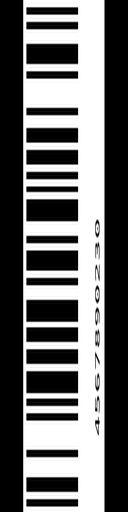
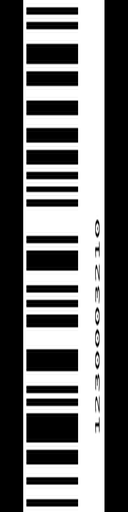
Separate Lecture Pages Draft

diff --git a/GUI/pg/pgStart.py b/GUI/pg/pgStart.py
@@ -1,7 +1,8 @@
+from kivy.uix.image import Image
 from kivy.uix.label import Label
 from kivy.uix.popup import Popup
 from kivy.uix.button import Button
-from kivy.uix.gridlayout import GridLayout
+from kivy.uix.floatlayout import FloatLayout
 
 import webbrowser
 from functools import partial
@@ -20,24 +21,35 @@ def faq_status(sign, dt):
 def on_faq(self, no):
     faq_status(self.ids["txt_faq_%s_click" % no], None)
 
-    popup_content = GridLayout(cols=1)
+    popup_content = FloatLayout()
     popup = Popup(title=self.ids["txt_faq_%s" % no].text,
                   content=popup_content, separator_color=[140/255., 55/255., 95/255., 1.],
                   size_hint=(None, None), size=(self.width/2, self.height/2))
+    popup_content.add_widget(Image(source="img/widget_75_gray.png", allow_stretch=True, keep_ratio=False,
+                                   size=(self.width, self.height), pos_hint={"center_x":.5, "center_y":.5}))
     if no == 1:
-        popup_content.add_widget(Label(text="Hello World 1", font_name="font/CaviarDreams.ttf", font_size=self.width/50))
+        popup_content.add_widget(Label(text="HelloWorld 1", color=(0,0,0,1),
+                                       font_name="font/CaviarDreams.ttf", font_size=self.width/50,
+                                       pos_hint={"center_x": .5, "center_y": .5}))
     elif no == 2:
-        popup_content.add_widget(Label(text="Hello World 2", font_name="font/CaviarDreams.ttf", font_size=self.width/50))
+        popup_content.add_widget(Label(text="HelloWorld 2", color=(0,0,0,1),
+                                       font_name="font/CaviarDreams.ttf", font_size=self.width/50,
+                                       pos_hint={"center_x": .5, "center_y": .5}))
     elif no == 3:
-        popup_content.add_widget(Label(text="Hello World 3", font_name="font/CaviarDreams.ttf", font_size=self.width/50))
+        popup_content.add_widget(Label(text="HelloWorld 3", color=(0,0,0,1),
+                                       font_name="font/CaviarDreams.ttf", font_size=self.width/50,
+                                       pos_hint={"center_x": .5, "center_y": .5}))
     else:
-        popup_content.add_widget(Label(text="Hello World 4", font_name="font/CaviarDreams.ttf", font_size=self.width/50))
+        popup_content.add_widget(Label(text="HelloWorld 4", color=(0,0,0,1),
+                                       font_name="font/CaviarDreams.ttf", font_size=self.width/50,
+                                       pos_hint={"center_x": .5, "center_y": .5}))
     popup_content.add_widget(Button(text="Close",
                                     font_name="font/LibelSuit.ttf",
                                     font_size=self.height/40,
                                     background_normal="img/widget_100.png",
                                     background_down="img/widget_100_selected.png",
                                     size_hint_y=None, height=self.height/20,
+                                    pos_hint={"center_x": .5, "y": .0},
                                     on_release=popup.dismiss))
     popup.bind(on_dismiss=partial(faq_status, self.ids["txt_faq_%s_click" % no]))
     popup.open()

diff --git a/GUI/pg/pgLects.py b/GUI/pg/pgLects.py
@@ -1,0 +1,58 @@
+import sys
+sys.path.append("../..")
+
+from Server import DatabaseAPI
+from kivy.uix.button import Button
+from kivy.uix.dropdown import DropDown
+
+def on_pre_enter(self):
+    data = ["Cs_361_Software","Eecs_202_Basic_Digital_Communication","Engr_101_Computer_Skills","Life_101_Biology"]
+    #TODO: data = DatabaseAPI...
+
+    list_dropdown = DropDown()
+
+    for lect in data:
+        btn_lect = Button(text=" ".join(lect.split("_")[:2]).upper(),
+                          color=(0,0,0,1),
+                          font_name="font/LibelSuit.ttf",
+                          font_size=self.height / 40,
+                          background_normal="img/widget_75_gray.png",
+                          background_down="img/widget_100_gray.png",
+                          size_hint_y=None, height=self.height / 10)
+        btn_lect.bind(on_release=lambda btn_lect: on_lect_select(self, data, list_dropdown, btn_lect.text))
+        list_dropdown.add_widget(btn_lect)
+
+    btn_main = Button(text="Select a Lecture",
+                      font_name="font/LibelSuit.ttf",
+                      font_size=self.height / 40,
+                      background_normal="img/widget_75_black.png",
+                      background_down="img/widget_75_gray.png",
+                      size_hint=(.2, .1),
+                      pos=(self.x, self.height * 8 / 10))
+    btn_main.bind(on_release=list_dropdown.open)
+
+    list_dropdown.bind(on_select=lambda instance, x: setattr(btn_main, "text", x))
+
+    self.add_widget(btn_main)
+
+def on_lect_select(self, data, dropdown, txt):
+    dropdown.select(txt)
+
+    self.ids["btn_exams"].disabled = False
+    self.ids["btn_participants"].disabled = False
+    self.ids["btn_class_statistics"].disabled = False
+
+    self.ids["txt_hint"].opacity = 0
+
+    txt_lect_code = self.ids["txt_lect_code"]
+    txt_lect_code.opacity = 1
+    txt_lect_name = self.ids["txt_lect_name"]
+    txt_lect_name.opacity = 1
+
+    for lect in data:
+        if txt in " ".join(lect.split("_")).upper():
+            txt_lect_code.text = txt
+            txt_lect_name.text = " ".join(lect.split("_")[2:]).title()
+            break
+
+    #TODO: When Lecture Selected

diff --git a/GUI/gui.py b/GUI/gui.py
@@ -8,10 +8,38 @@ from kivy.animation import Animation
 from kivy.core.window import Window
 from kivy.uix.screenmanager import Screen, ScreenManager, FadeTransition
 
-from pg import pgLogin, tabReset, tabActivate, pgStart, pgProfile, pgLects
+from pg import pgLogin, tabReset, tabActivate, pgStart, pgProfile, pgLects, pgStats
+
+class PgStats(Screen):
+    pgLogin.load_string("stats")
+
+    def on_enter(self, *args):
+        pgLogin.on_enter(self)
+
+    def on_profile(self):
+        pages.append(PgProfile(name="PgProfile"))
+        tabReset.on_back(pages, screen)
+
+    def on_start(self):
+        pages.append(PgStart(name="PgStart"))
+        tabReset.on_back(pages, screen)
+
+    def on_lects(self):
+        pages.append(PgLects(name="PgLects"))
+        tabReset.on_back(pages, screen)
+
+    def on_logout(self):
+        pages.append(PgLogin(name="PgLogin"))
+        tabReset.on_back(pages, screen)
+
+    def on_quit(self):
+        pgLogin.on_quit()
 
 class PgLects(Screen):
     pgLogin.load_string("lects")
+
+    def on_pre_enter(self, *args):
+        pgLects.on_pre_enter(self)
 
     def on_enter(self, *args):
         pgLogin.on_enter(self)
@@ -156,7 +184,7 @@ class PgLogin(Screen):
         pgLogin.on_enter(self)
 
     def on_login(self):
-        pages.append(PgStart(name="PgStart"))
+        pages.append(PgLects(name="PgLects"))
         pgLogin.on_login(self, pages, screen)
 
     def on_reset(self):

diff --git a/GUI/pg/pgProfile.py b/GUI/pg/pgProfile.py
@@ -10,14 +10,14 @@ def on_pre_enter(self):
     round_image()
     self.ids["img_user"].reload()
 
-    barcode_png(data_login[0].replace("\n", " ")) #TODO: DEBUG! ERROR! FIX IT!
+    barcode_png(data_login[0].replace("\n", ""))
     self.ids["img_barcode_1"].reload()
     self.ids["img_barcode_2"].reload()
 
-    self.ids["txt_username"].text = (data_login[1].replace("\n", " ")).replace("_", " ").title() + (data_login[2].replace("\n", " ")).replace("_", " ").title()
-    self.ids["txt_usermail"].text = data_login[5].replace("\n", " ")
-    self.ids["txt_userdept"].text = (data_login[6].replace("\n", " ")).replace("_", " ").title()
-    self.ids["txt_useruniv"].text = (data_login[7].replace("\n", " ")).replace("_", " ").title()
+    self.ids["txt_username"].text = (data_login[1].replace("\n", " ")).replace("_", " ").title() + (data_login[2].replace("\n", "")).replace("_", " ").title()
+    self.ids["txt_usermail"].text = data_login[5].replace("\n", "")
+    self.ids["txt_userdept"].text = (data_login[6].replace("\n", "")).replace("_", " ").title()
+    self.ids["txt_useruniv"].text = (data_login[7].replace("\n", "")).replace("_", " ").title()
 
     self.ids["input_new_password"].disabled = True
     self.ids["input_new_mail"].disabled = True
